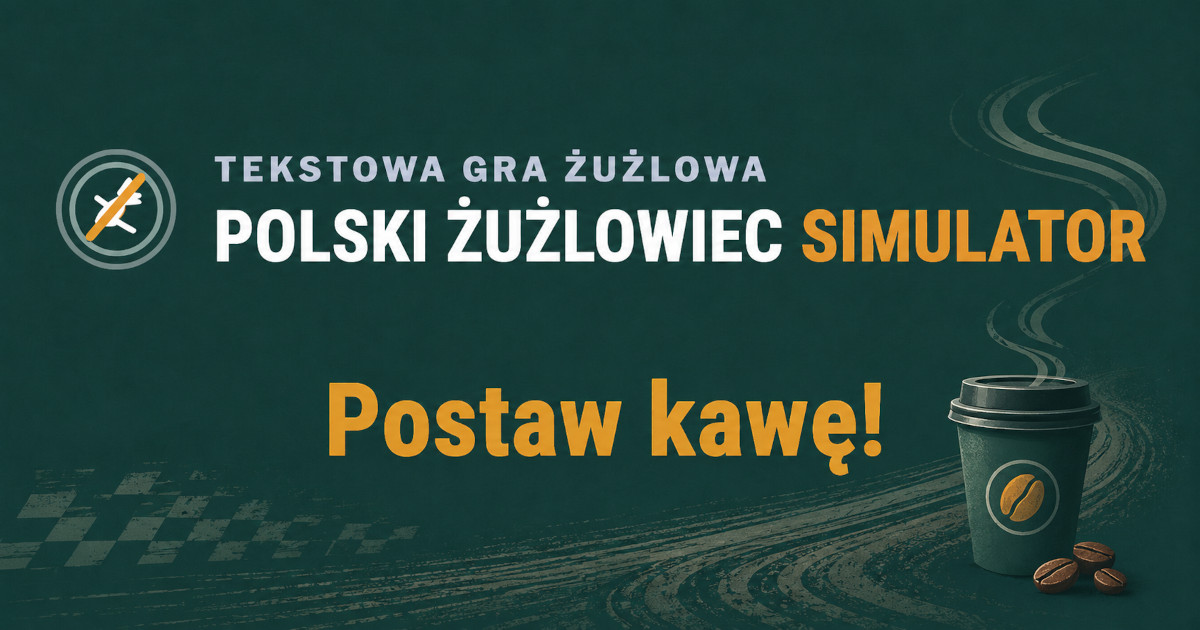
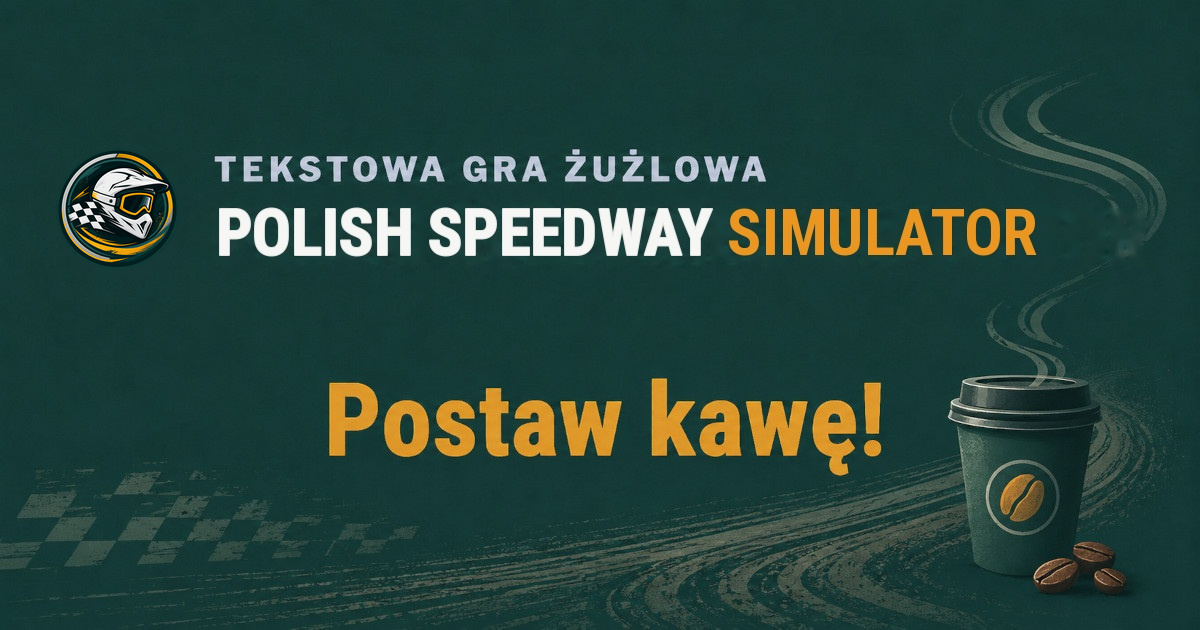
Aktualizacja - wersja 1.00

diff --git a/style.css b/style.css
@@ -5,7 +5,7 @@
 }
 *{box-sizing:border-box}html{scroll-behavior:smooth}body{margin:0;background:linear-gradient(180deg,#f6f3ec 0%,var(--page) 100%);color:var(--text);font-family:"Libre Franklin",Arial,sans-serif;line-height:1.5}button,input,select{font:inherit}.hidden{display:none!important}.app{min-height:100vh}
 h1,h2,h3,.number,.stats b,.big-stats b,.value b{font-family:"Roboto Condensed","Arial Narrow",sans-serif;font-weight:800}.eyebrow{margin:0 0 7px;color:var(--red-dark);font-size:.72rem;font-weight:800;letter-spacing:.16em;text-transform:uppercase}.muted{color:var(--muted)}
-.masthead{min-height:78px;padding:14px max(28px,calc((100vw - 1440px)/2));display:flex;align-items:center;justify-content:space-between;gap:20px;background:var(--navy);border-bottom:4px solid var(--cyan);color:white}.brand-lockup{display:flex;align-items:center;gap:13px}.brand-mark{width:42px;height:42px;position:relative;border:2px solid rgba(255,255,255,.4);border-radius:50%}.brand-ring{position:absolute;width:28px;height:15px;border:3px solid white;border-radius:50%;left:5px;top:11px;transform:rotate(-12deg)}.brand-slash{position:absolute;width:4px;height:31px;background:var(--red);left:18px;top:4px;transform:rotate(35deg)}.masthead h1{margin:0;font-size:1.55rem;line-height:1}.masthead h1 span{color:var(--red)}.masthead .eyebrow{color:#bac7da;margin-bottom:3px}.header-actions{display:flex;align-items:center;gap:8px;flex-wrap:wrap}.version-badge{padding:7px 10px;border:1px solid rgba(255,255,255,.24);border-radius:5px;font-size:.72rem;font-weight:800}.btn{border:0;border-radius:5px;min-height:43px;padding:0 17px;font-weight:800;font-size:.78rem;letter-spacing:.035em;text-transform:uppercase;cursor:pointer;transition:.15s ease}.btn:hover{transform:translateY(-1px)}.btn.primary{background:var(--red);color:#20302d}.btn.primary:hover{background:var(--red-dark)}.btn.secondary{background:transparent;color:white;border:1px solid rgba(255,255,255,.35)}.btn.outline{background:white;color:var(--navy);border:1px solid #cfd6e1}.btn.full,.btn.submit{width:100%;min-height:56px;font-size:1rem}
+.masthead{min-height:78px;padding:14px max(28px,calc((100vw - 1440px)/2));display:flex;align-items:center;justify-content:space-between;gap:20px;background:var(--navy);border-bottom:4px solid var(--cyan);color:white}.brand-lockup{display:flex;align-items:center;gap:13px}.brand-mark{width:46px;height:46px;position:relative;border:0;border-radius:50%;overflow:visible;flex:0 0 46px}.brand-ring{position:absolute;width:28px;height:15px;border:3px solid white;border-radius:50%;left:5px;top:11px;transform:rotate(-12deg)}.brand-slash{position:absolute;width:4px;height:31px;background:var(--red);left:18px;top:4px;transform:rotate(35deg)}.masthead h1{margin:0;font-size:1.55rem;line-height:1}.masthead h1 span{color:var(--red)}.masthead .eyebrow{color:#bac7da;margin-bottom:3px}.header-actions{display:flex;align-items:center;gap:8px;flex-wrap:wrap}.version-badge{padding:7px 10px;border:1px solid rgba(255,255,255,.24);border-radius:5px;font-size:.72rem;font-weight:800}.btn{border:0;border-radius:5px;min-height:43px;padding:0 17px;font-weight:800;font-size:.78rem;letter-spacing:.035em;text-transform:uppercase;cursor:pointer;transition:.15s ease}.btn:hover{transform:translateY(-1px)}.btn.primary{background:var(--red);color:#20302d}.btn.primary:hover{background:var(--red-dark)}.btn.secondary{background:transparent;color:white;border:1px solid rgba(255,255,255,.35)}.btn.outline{background:white;color:var(--navy);border:1px solid #cfd6e1}.btn.full,.btn.submit{width:100%;min-height:56px;font-size:1rem}
 .start-wrap{padding:30px 18px 60px}.start-card{max-width:980px;margin:auto;background:transparent}.start-hero{position:relative;overflow:hidden;background:linear-gradient(135deg,var(--navy),var(--navy-2));color:white;padding:34px 38px;border-radius:8px;margin-bottom:18px;box-shadow:var(--shadow)}.start-hero h2{font-size:clamp(2.4rem,6vw,4.3rem);line-height:.93;text-transform:uppercase;margin:0 0 16px;max-width:700px}.start-hero .lead{max-width:650px;color:#d8e0ed;font-size:1rem}.track-mark{position:absolute;width:230px;height:230px;border:35px solid rgba(239,35,60,.38);border-radius:50%;right:-45px;top:-62px}.career-form{display:grid;gap:18px}.form-section{background:white;border:1px solid var(--line);border-radius:8px;box-shadow:0 4px 15px rgba(25,39,65,.04);overflow:hidden;padding:0 22px 22px}.form-section-title{display:flex;align-items:center;gap:11px;margin:0 -22px 20px;padding:12px 20px;background:linear-gradient(135deg,var(--navy),var(--navy-2));color:white}.form-section-title span{color:var(--red-dark);font-family:"Roboto Condensed";font-weight:800}.form-section-title h3{margin:0;font-size:1.25rem;text-transform:uppercase}.name-row{display:grid;grid-template-columns:1fr 260px;gap:12px;align-items:end}.form-grid{display:grid;grid-template-columns:repeat(3,1fr);gap:14px;margin-top:14px}label{display:block;color:#596579;font-size:.73rem;font-weight:800;letter-spacing:.06em;text-transform:uppercase}input,select{width:100%;height:50px;margin-top:7px;padding:0 14px;border:1px solid #cfd6e1;border-radius:5px;background:white;color:var(--text);outline:none}input:focus,select:focus{border-color:var(--navy-3);box-shadow:0 0 0 3px rgba(26,59,112,.10)}.choice-grid{display:grid;gap:10px}.start-choice-grid{grid-template-columns:repeat(2,1fr)}.start-choice-grid .choice-card:last-child{grid-column:1/-1}.difficulty-grid{grid-template-columns:repeat(3,1fr)}.choice-card{min-height:82px;text-align:left;padding:14px 16px;background:white;border:1px solid #cfd6e1;border-radius:5px;color:var(--text);cursor:pointer}.choice-card strong{display:block;font-size:.93rem;margin-bottom:4px}.choice-card small{display:block;color:var(--muted);line-height:1.35}.choice-card.active{background:var(--navy);border-color:var(--navy);color:white;box-shadow:inset 4px 0 0 var(--cyan)}.choice-card.active small{color:#cbd6e7}
 .layout{width:min(1440px,calc(100% - 34px));margin:24px auto 54px;display:grid;grid-template-columns:300px 1fr;gap:18px;align-items:start}.content{display:grid;gap:16px}.dashboard-intro{display:flex;justify-content:space-between;align-items:end;padding:3px 1px}.dashboard-intro h2{margin:0;font-size:2rem;text-transform:uppercase}.live-indicator{font-size:.68rem;font-weight:800;color:var(--muted)}.live-indicator span{display:inline-block;width:8px;height:8px;border-radius:50%;background:var(--green);margin-right:7px}.card{background:white;border:1px solid var(--line);border-radius:8px;box-shadow:0 5px 18px rgba(25,39,65,.05);overflow:hidden;padding:20px}.profile{position:sticky;top:18px;padding:0}.profile>.number,.profile>p,.profile>h2,.profile>hr,.profile>.big-stats,.profile>.profile-block,.profile>.micro{margin-left:20px;margin-right:20px}.profile::before{content:"KARTA ZAWODNIKA";display:block;background:linear-gradient(135deg,var(--navy),var(--navy-2));color:white;padding:12px 20px;font-family:"Roboto Condensed";font-weight:800;letter-spacing:.04em}.number{width:68px;height:68px;display:grid;place-items:center;margin-top:20px!important;background:var(--red);color:#20302d;font-size:2.25rem;border-radius:5px}.profile h2{font-size:1.65rem;margin-top:8px;margin-bottom:3px}.profile hr{border:0;border-top:1px solid var(--line);margin-top:17px!important;margin-bottom:17px!important}.big-stats{display:grid;grid-template-columns:1fr 1fr;gap:10px}.big-stats div{padding:11px;background:#f6f8fb;border:1px solid #e2e7ef;border-radius:5px}.big-stats span,.profile-block span,.micro span,.stats span,.value span{display:block;color:var(--muted);font-size:.63rem;font-weight:800;letter-spacing:.08em;text-transform:uppercase}.big-stats b{display:block;font-size:1.75rem}.red{color:var(--red)!important}.profile-block{margin-top:12px;margin-bottom:12px}.profile-block strong{display:block}.profile-block small{color:var(--muted)}.micro{display:grid;gap:0;margin-bottom:20px!important;border:1px solid var(--line);border-radius:5px;overflow:hidden}.micro div{display:flex;justify-content:space-between;padding:8px 10px;background:#fafbfc;border-bottom:1px solid var(--line)}.micro div:last-child{border-bottom:0}
 .season{padding:0}.season-head{padding:20px 22px;background:linear-gradient(135deg,var(--navy),var(--navy-2));color:white;display:flex;justify-content:space-between;align-items:start}.season-head .eyebrow{color:#9edce4}.season-head h2{margin:0;font-size:2rem;text-transform:uppercase}.value{text-align:right}.value span{color:#b9c6da}.value b{font-size:1.35rem}.stats{display:grid;grid-template-columns:repeat(5,1fr);border-bottom:1px solid var(--line)}.stats>div{padding:16px 18px;border-right:1px solid var(--line)}.stats>div:last-child{border-right:0}.stats b{display:block;font-size:1.4rem;margin-top:4px}.news,.result{margin:18px 22px;padding:15px 17px;background:#f6f8fb;border-left:4px solid var(--cyan)}.season>.btn{width:calc(100% - 44px);margin:0 22px 22px}.section-head{display:flex;justify-content:space-between;align-items:center;margin:-20px -20px 20px;padding:13px 20px;background:linear-gradient(135deg,var(--navy),var(--navy-2));color:white}.section-head h2{margin:0;font-size:1.55rem;text-transform:uppercase}.section-head .eyebrow{color:#8edbe4}.pill{padding:7px 11px;border:1px solid rgba(255,255,255,.3);border-radius:999px;color:white;font-size:.66rem;font-weight:800}
@@ -333,7 +333,7 @@ body::before{
 .summary-share-btn{display:inline-flex!important;align-items:center;justify-content:center;min-height:46px;box-shadow:0 5px 14px rgba(229,154,47,.24)}
 #careerSummaryCard:not(.hidden){display:block}
 
-.speedway-logo{width:100%;height:100%;overflow:visible}.logo-wheel{fill:none;stroke:#8aa5a1;stroke-width:5}.logo-hub{fill:#f0a12f}.logo-bike{fill:#f8faf8}.logo-frame{fill:none;stroke:#f8faf8;stroke-width:5;stroke-linecap:round;stroke-linejoin:round}.logo-accent{fill:none;stroke:#f0a12f;stroke-width:8;stroke-linecap:round}
+.speedway-logo{display:block;width:100%;height:100%;object-fit:contain}
 .guidance-toggle{display:flex;align-items:flex-start;gap:12px;padding:15px 17px;margin:2px 0 18px;border:1px solid var(--line);border-radius:7px;background:#f7f8f5;cursor:pointer}.guidance-toggle input{width:20px;height:20px;margin-top:2px;accent-color:var(--teal)}.guidance-toggle span{display:grid;gap:3px}.guidance-toggle strong{font-size:.88rem}.guidance-toggle small{color:var(--muted);line-height:1.4}.guidance-report{margin-top:18px;padding:15px 18px;border-left:4px solid var(--turquoise);background:#fffdf8}.guidance-report span{font-size:.68rem;font-weight:800;letter-spacing:.12em;color:#bd7517}.guidance-report p{margin:8px 0 0}
 
 .skill-lock{display:block;grid-column:1/-1;margin-top:6px;font-size:.72rem;color:#8a6b2a}
@@ -372,7 +372,7 @@ body::before{
 
 .race-track-change{margin:10px 0 4px;padding:9px 12px;border-left:3px solid rgba(28,120,106,.55);background:rgba(28,120,106,.06);font-weight:650}
 
-/* 1.31 — wydarzenia fabularne */
+/* Wydarzenia fabularne */
 .event-probabilities{margin-top:9px}
 .event-super{color:#7448d8}.event-success{color:#16875a}.event-neutral{color:#8a7b55}.event-fail{color:#b03535}
 .event-outcome-roller .event-tile-super{background:#8755ea}
@@ -402,7 +402,7 @@ body::before{
 
 
 /* =========================================================
-   1.32 — pełny mobile UX
+   Pełny mobile UX
    ========================================================= */
 html,body{max-width:100%;overflow-x:hidden}
 button,.btn,.option,.choice-card{touch-action:manipulation;-webkit-tap-highlight-color:transparent}
@@ -422,7 +422,7 @@ button,.btn,.option,.choice-card{touch-action:manipulation;-webkit-tap-highlight
   gap:10px;
  }
  .brand-lockup{width:100%;gap:10px}
- .brand-mark{display:block;width:34px;height:34px;flex:0 0 34px}
+ .brand-mark{display:block;width:38px;height:38px;flex:0 0 38px}
  .masthead h1{font-size:clamp(1.05rem,5.6vw,1.42rem);line-height:1.02;overflow-wrap:anywhere}
  .masthead .eyebrow{font-size:.56rem;letter-spacing:.13em}
  .header-actions{width:100%;display:grid;grid-template-columns:repeat(2,minmax(0,1fr));gap:7px}
@@ -597,7 +597,7 @@ button,.btn,.option,.choice-card{touch-action:manipulation;-webkit-tap-highlight
  .modal-card>.eyebrow,.modal-card.modal-card-wide>.eyebrow{margin-left:-11px;margin-right:-11px;padding-left:11px;padding-right:11px}
 }
 
-/* 1.33 — celebracja jako pełny ekran kontrolowany przez gracza */
+/* Celebracja jako pełny ekran kontrolowany przez gracza */
 .achievement-burst{
  background:
   radial-gradient(circle at 50% 42%,rgba(20,74,62,.26),rgba(2,9,8,.88) 58%,rgba(1,5,5,.95));
@@ -632,14 +632,14 @@ button,.btn,.option,.choice-card{touch-action:manipulation;-webkit-tap-highlight
 }
 
 
-/* v1.34 */
+/* Mechanika interaktywnych biegów */
 .calendar-notice{margin-top:10px;padding:10px 12px;border-left:3px solid #42aaa0;background:rgba(66,170,160,.07);line-height:1.45}
 .event-outcome-roller .event-tile-success{background:#2fa86f!important}
 .event-outcome-roller .event-tile-neutral{background:#d39a2f!important}
 .event-outcome-roller .event-tile-fail{background:#d44a4a!important}
 .event-probabilities .event-success{color:#148255}.event-probabilities .event-neutral{color:#9b6b13}.event-probabilities .event-fail{color:#b52828}
 
-/* 2.00 — kontrolowane łamanie komunikatu celebracji */
+/* Kontrolowane łamanie komunikatu celebracji */
 .achievement-copy strong .achievement-title-main,
 .achievement-copy strong .achievement-title-detail{
  display:block;
@@ -649,7 +649,7 @@ button,.btn,.option,.choice-card{touch-action:manipulation;-webkit-tap-highlight
 }
 .achievement-copy strong .achievement-title-detail{margin-top:.12em}
 
-/* Wersja 2.00 — informacja o projekcie i dobrowolne wsparcie po zakończeniu kariery */
+/* Informacja o projekcie i dobrowolne wsparcie po zakończeniu kariery */
 .career-support{
   display:flex;
   justify-content:center;

diff --git a/app.js b/app.js
@@ -11,7 +11,7 @@ const LEAGUES=[
   ["Stelmet Falubaz Zielona Góra",79],["FOGO Unia Leszno",82],["KRONO-PLAST Włókniarz Częstochowa",76],["GEZET Stal Gorzów",77]
  ]},
  {id:2,name:"Metalkas 2. Ekstraliga",level:2,teams:[
-  ["Abramczyk Polonia Bydgoszcz",75],["Cellfast Wilki Krosno",70],["INNPRO ROW Rybnik",72],["Dakar Development Stal Rzeszów",68],
+  ["Abramczyk Polonia Bydgoszcz",75],["Cellfast Wilki Krosno",74],["INNPRO ROW Rybnik",72],["Dakar Development Stal Rzeszów",68],
   ["Hunters PSŻ Poznań",67],["H. Skrzydlewska Orzeł Łódź",65],["Polonia Piła",63],["Moonfin Magnus Ostrów Wielkopolski",64]
  ]},
  {id:3,name:"Krajowa Liga Żużlowa",level:3,teams:[
@@ -196,9 +196,9 @@ const REGION_CLUBS={
 const FOREIGN_POLISH_LEAGUE_CLUBS=new Set(["Landshut Devils","Lokomotiv Daugavpils","MSC Wölfe Wittstock","AMK Zlatá Přilba Pardubice"]);
 function isForeignPolishLeagueClub(name){return FOREIGN_POLISH_LEAGUE_CLUBS.has(clubBaseName(name))}
 const EXPANSION_CLUBS=[
- {name:"Jaskółki Tarnów",city:"Tarnów",strength:52,type:"reaktywacja"},
+ {name:"Unia Tarnów",city:"Tarnów",strength:52,type:"reaktywacja"},
  {name:"Rawicz Speedway",city:"Rawicz",strength:48,type:"reaktywacja"},
- {name:"Wicher Machowa",city:"Machowa",strength:43,type:"reaktywacja"},
+ {name:"Victoria Machowa",city:"Machowa",strength:43,type:"reaktywacja"},
  {name:"Silesia Katowice",city:"Katowice",strength:46,type:"nowa sekcja"},
  {name:"Warszawski Klub Żużlowy",city:"Warszawa",strength:50,type:"nowa sekcja"},
  {name:"Gryfy Szczecin",city:"Szczecin",strength:44,type:"nowa sekcja"},
@@ -1917,7 +1917,7 @@ function showStartDisclaimer(){
  showModal(
   "WAŻNA INFORMACJA",
   "Zanim rozpoczniesz karierę",
-  `<strong>Polski Żużlowiec Simulator jest niezależną, nieoficjalną grą symulacyjną stworzoną dla fanów żużla.</strong><br><br>Gra wykorzystuje elementy rzeczywistego świata sportu żużlowego, jednak przebieg kariery, wyniki, transfery, kontrakty, wydarzenia oraz kolejne sezony są elementami fikcyjnej symulacji.<br><br>Projekt nie jest oficjalnie powiązany z klubami, organizatorami rozgrywek, federacjami ani innymi podmiotami pojawiającymi się w grze.<br><br><strong>Miłej zabawy i powodzenia na żużlowych torach!</strong>`,
+  `<strong>Polish Speedway Simulator jest niezależną, nieoficjalną grą symulacyjną stworzoną dla fanów żużla.</strong><br><br>Gra wykorzystuje elementy rzeczywistego świata sportu żużlowego, jednak przebieg kariery, wyniki, transfery, kontrakty, wydarzenia oraz kolejne sezony są elementami fikcyjnej symulacji.<br><br>Projekt nie jest oficjalnie powiązany z klubami, organizatorami rozgrywek, federacjami ani innymi podmiotami pojawiającymi się w grze.<br><br><strong>Miłej zabawy i powodzenia na żużlowych torach!</strong>`,
   [{title:"ROZUMIEM — ZACZYNAM KARIERĘ",desc:"Przejdź do swojej żużlowej kariery.",action:()=>{closeModal();createPlayer()}}]
  );
 }
@@ -1957,11 +1957,13 @@ function createPlayer(){
  $("newsBox").innerHTML=`<p class="eyebrow">PRZED LICENCJĄ</p><h3>${background.title.toUpperCase()}</h3><p>${background.text}</p><p><b>Zaplecze:</b> ${support.title}. Budżet początkowy: ${money(S.budget)}.</p>${openingReport?`<div class="guidance-report"><span>RAPORT SZKÓŁKI</span><p>${openingReport.text}</p></div>`:""}`;
  save();
 }
-function save(){localStorage.setItem("pzs_v200",JSON.stringify(S))}
+function save(){localStorage.setItem("pss_v100",JSON.stringify(S))}
 function load(){
  try{
-  const newest=localStorage.getItem("pzs_v200");
+  const newest=localStorage.getItem("pss_v100");
+  const previousBrand=localStorage.getItem("pzs_v200");
   if(newest)return JSON.parse(newest);
+  if(previousBrand){localStorage.setItem("pss_v100",previousBrand); return JSON.parse(previousBrand);}
   const v1361=localStorage.getItem("pzs_v1361");
   if(v1361)return JSON.parse(v1361);
   const v136=localStorage.getItem("pzs_v136");
@@ -2586,7 +2588,7 @@ function animateRollerWithBrake(stripEl,startOffset,finalOffset,duration,done){
  stripEl.style.transition="none";
  stripEl.style.transform=`translate3d(${-startOffset}px,0,0)`;
 
- // 2.00 — jedna gładka krzywa prędkości.
+ // 1.00 — jedna gładka krzywa prędkości.
  // Szybki start, a potem od razu naturalne, długie hamowanie:
  // bez ponownego przyspieszania, bez "progów" między fazami
  // i z bardzo wolnym ogonem tuż przed zatrzymaniem.
@@ -7056,7 +7058,7 @@ function drawCareerGraphicHeader(ctx,title,subtitle){
  ctx.fillStyle="#f4f0e7";ctx.fillRect(0,0,1080,1350);
  ctx.fillStyle="#173d3a";ctx.fillRect(0,0,1080,220);
  ctx.fillStyle="#4ca7a0";ctx.fillRect(0,212,1080,8);
- canvasText(ctx,"POLSKI ŻUŻLOWIEC SIMULATOR",64,72,{font:"700 27px Arial",color:"#a8dfe2"});
+ canvasText(ctx,"POLISH SPEEDWAY SIMULATOR",64,72,{font:"700 27px Arial",color:"#a8dfe2"});
  canvasText(ctx,title,64,142,{font:"800 55px Arial",color:"#ffffff",maxWidth:900});
  canvasText(ctx,subtitle,64,190,{font:"600 25px Arial",color:"#e9a33a",maxWidth:900});
 }
@@ -7097,7 +7099,7 @@ function generateCareerSummaryGraphic(){
  canvasRoundRect(ctx,55,1160,970,120,16,"#173d3a");
  canvasText(ctx,"TYP KARIERY",85,1203,{font:"700 18px Arial",color:"#a8dfe2"});
  canvasText(ctx,classifyCareerPath(),85,1250,{font:"800 35px Arial",color:"#ffffff"});
- canvasText(ctx,"#PolskiŻużlowiecSimulator",995,1250,{font:"700 20px Arial",color:"#e9a33a",align:"right"});
+ canvasText(ctx,"#PolishSpeedwaySimulator",995,1250,{font:"700 20px Arial",color:"#e9a33a",align:"right"});
  downloadCanvas(canvas,`kariera-${S.name.toLowerCase().replace(/[^a-z0-9ąćęłńóśźż]+/gi,"-")}.png`);
 }
 function generateSeasonHistoryGraphics(){
@@ -7128,7 +7130,7 @@ function generateSeasonHistoryGraphics(){
     canvasText(ctx,leagueSeasonLabel(season),columns[7],y,{font:"700 18px Arial",maxWidth:115});
     y+=82;
    });
-   canvasText(ctx,"POLSKI ŻUŻLOWIEC SIMULATOR",55,1300,{font:"700 18px Arial",color:"#6e7773"});
+   canvasText(ctx,"POLISH SPEEDWAY SIMULATOR",55,1300,{font:"700 18px Arial",color:"#6e7773"});
    downloadCanvas(canvas,`historia-${S.name.toLowerCase().replace(/[^a-z0-9ąćęłńóśźż]+/gi,"-")}-${pageIndex+1}.png`);
    setTimeout(resolve,350);
   }));
@@ -7640,7 +7642,7 @@ $("riderNumber").addEventListener("input",()=>{
 });
 $("startForm").onsubmit=e=>{e.preventDefault();showStartDisclaimer()};
 $("playBtn").onclick=play;
-$("newBtn").onclick=()=>{if(confirm("Usunąć obecny zapis i rozpocząć nową karierę?")){localStorage.removeItem("pzs_v200");localStorage.removeItem("pzs_v1361");localStorage.removeItem("pzs_v136");localStorage.removeItem("pzs_v135");localStorage.removeItem("pzs_v134");localStorage.removeItem("pzs_v1331");localStorage.removeItem("pzs_v133");localStorage.removeItem("pzs_v132");localStorage.removeItem("pzs_v131");localStorage.removeItem("pzs_v1301");localStorage.removeItem("pzs_v130");localStorage.removeItem("pzs_v129");localStorage.removeItem("pzs_v128");localStorage.removeItem("pzs_v127");localStorage.removeItem("pzs_v126");localStorage.removeItem("pzs_v1252");localStorage.removeItem("pzs_v1251");localStorage.removeItem("pzs_v125");localStorage.removeItem("pzs_v124");localStorage.removeItem("pzs_v123");localStorage.removeItem("pzs_v122");localStorage.removeItem("pzs_v121");localStorage.removeItem("pzs_v120");localStorage.removeItem("pzs_v119");localStorage.removeItem("pzs_v118");localStorage.removeItem("pzs_v117");localStorage.removeItem("pzs_v116");localStorage.removeItem("pzs_v115");localStorage.removeItem("pzs_v114");localStorage.removeItem("pzs_v113");localStorage.removeItem("pzs_v112");localStorage.removeItem("pzs_v111");localStorage.removeItem("pzs_v110");localStorage.removeItem("pzs_v109");localStorage.removeItem("pzs_v108");localStorage.removeItem("pzs_v107");localStorage.removeItem("pzs_v106");localStorage.removeItem("pzs_v105");localStorage.removeItem("pzs_v104");localStorage.removeItem("pzs_v103");localStorage.removeItem("pzs_v102");localStorage.removeItem("pzs_v101");localStorage.removeItem("pzs_v100");localStorage.removeItem("pzs_v305");localStorage.removeItem("pzs_v304");localStorage.removeItem("pzs_v303");localStorage.removeItem("pzs_v302");localStorage.removeItem("pzs_v301");localStorage.removeItem("pzs_final30");localStorage.removeItem("pzs_v30");localStorage.removeItem("pzs_v29");localStorage.removeItem("pzs_v28");localStorage.removeItem("pzs_v27");localStorage.removeItem("pzs_v26");localStorage.removeItem("pzs_v25");localStorage.removeItem("pzs_v24");localStorage.removeItem("pzs_v23");localStorage.removeItem("pzs_v22");localStorage.removeItem("pzs_v2");location.reload()}};
+$("newBtn").onclick=()=>{if(confirm("Usunąć obecny zapis i rozpocząć nową karierę?")){localStorage.removeItem("pss_v100");localStorage.removeItem("pzs_v200");localStorage.removeItem("pzs_v1361");localStorage.removeItem("pzs_v136");localStorage.removeItem("pzs_v135");localStorage.removeItem("pzs_v134");localStorage.removeItem("pzs_v1331");localStorage.removeItem("pzs_v133");localStorage.removeItem("pzs_v132");localStorage.removeItem("pzs_v131");localStorage.removeItem("pzs_v1301");localStorage.removeItem("pzs_v130");localStorage.removeItem("pzs_v129");localStorage.removeItem("pzs_v128");localStorage.removeItem("pzs_v127");localStorage.removeItem("pzs_v126");localStorage.removeItem("pzs_v1252");localStorage.removeItem("pzs_v1251");localStorage.removeItem("pzs_v125");localStorage.removeItem("pzs_v124");localStorage.removeItem("pzs_v123");localStorage.removeItem("pzs_v122");localStorage.removeItem("pzs_v121");localStorage.removeItem("pzs_v120");localStorage.removeItem("pzs_v119");localStorage.removeItem("pzs_v118");localStorage.removeItem("pzs_v117");localStorage.removeItem("pzs_v116");localStorage.removeItem("pzs_v115");localStorage.removeItem("pzs_v114");localStorage.removeItem("pzs_v113");localStorage.removeItem("pzs_v112");localStorage.removeItem("pzs_v111");localStorage.removeItem("pzs_v110");localStorage.removeItem("pzs_v109");localStorage.removeItem("pzs_v108");localStorage.removeItem("pzs_v107");localStorage.removeItem("pzs_v106");localStorage.removeItem("pzs_v105");localStorage.removeItem("pzs_v104");localStorage.removeItem("pzs_v103");localStorage.removeItem("pzs_v102");localStorage.removeItem("pzs_v101");localStorage.removeItem("pzs_v100");localStorage.removeItem("pzs_v305");localStorage.removeItem("pzs_v304");localStorage.removeItem("pzs_v303");localStorage.removeItem("pzs_v302");localStorage.removeItem("pzs_v301");localStorage.removeItem("pzs_final30");localStorage.removeItem("pzs_v30");localStorage.removeItem("pzs_v29");localStorage.removeItem("pzs_v28");localStorage.removeItem("pzs_v27");localStorage.removeItem("pzs_v26");localStorage.removeItem("pzs_v25");localStorage.removeItem("pzs_v24");localStorage.removeItem("pzs_v23");localStorage.removeItem("pzs_v22");localStorage.removeItem("pzs_v2");location.reload()}};
 $("exportBtn").onclick=()=>{const blob=new Blob([JSON.stringify(S,null,2)],{type:"application/json"}),a=document.createElement("a");a.href=URL.createObjectURL(blob);a.download=`kariera-${S.name.replace(/\s+/g,"-").toLowerCase()}.json`;a.click();URL.revokeObjectURL(a.href)};
 $("importInput").onchange=e=>{const f=e.target.files[0];if(!f)return;const r=new FileReader();r.onload=()=>{try{S=JSON.parse(r.result);S.seasonFlowActive=false;S.preseasonCompletedYear=null;S.budgetManagementCompletedYear=null;normalize();save();render()}catch{alert("Nieprawidłowy plik zapisu.")}};r.readAsText(f)};
 const saved=load();if(saved){S=saved;S.seasonFlowActive=false;normalize();repairLegacyStuckSeason();repairMaxedMetaSave();save();render()}

diff --git a/index.html b/index.html
@@ -3,24 +3,26 @@
 <head>
   <meta charset="utf-8">
   <meta name="viewport" content="width=device-width,initial-scale=1">
-  <title>Polski Żużlowiec Simulator</title>
+  <title>Polish Speedway Simulator</title>
   <link rel="preconnect" href="https://fonts.googleapis.com">
   <link rel="preconnect" href="https://fonts.gstatic.com" crossorigin>
   <link href="https://fonts.googleapis.com/css2?family=Libre+Franklin:wght@400;500;600;700;800&family=Roboto+Condensed:wght@600;700;800&display=swap" rel="stylesheet">
   <meta name="theme-color" content="#173d3a">
-  <meta name="description" content="Polski Żużlowiec Simulator 2.00 — tekstowa gra żużlowa o drodze od szkółki do światowego żużla.">
-
+  <link rel="icon" type="image/png" href="speedway-emblem.png">
+  <meta name="description" content="Polish Speedway Simulator 1.00 — tekstowa gra żużlowa o drodze od szkółki do światowego żużla.">
   <meta property="og:type" content="website">
-  <meta property="og:title" content="Polski Żużlowiec Simulator">
+  <meta property="og:title" content="Polish Speedway Simulator">
   <meta property="og:description" content="Tekstowy symulator kariery polskiego żużlowca — od szkółki aż po walkę o największe trofea.">
-  <meta property="og:url" content="https://polskizuzlowiec.vercel.app/">
-  <meta property="og:image" content="https://polskizuzlowiec.vercel.app/social-preview.jpeg">
-
+  <meta property="og:url" content="https://polishspeedway.vercel.app/">
+  <meta property="og:image" content="https://polishspeedway.vercel.app/social-preview.jpg">
+  <meta property="og:image:width" content="1200">
+  <meta property="og:image:height" content="630">
+  <meta property="og:image:alt" content="Polish Speedway Simulator — tekstowa gra żużlowa">
   <meta name="twitter:card" content="summary_large_image">
-  <meta name="twitter:title" content="Polski Żużlowiec Simulator">
+  <meta name="twitter:title" content="Polish Speedway Simulator">
   <meta name="twitter:description" content="Tekstowy symulator kariery polskiego żużlowca — od szkółki aż po walkę o największe trofea.">
-  <meta name="twitter:image" content="https://polskizuzlowiec.vercel.app/social-preview.jpeg">
-
+  <meta name="twitter:image" content="https://polishspeedway.vercel.app/social-preview.jpg">
+  <meta name="twitter:image:alt" content="Polish Speedway Simulator — tekstowa gra żużlowa">
   <link rel="stylesheet" href="style.css">
 </head>
 <body>
@@ -28,20 +30,14 @@
   <header class="masthead">
     <div class="brand-lockup">
       <div class="brand-mark" aria-hidden="true">
-        <svg class="speedway-logo" viewBox="0 0 96 96" focusable="false">
-          <circle cx="48" cy="48" r="39" class="logo-wheel"/>
-          <circle cx="48" cy="48" r="8" class="logo-hub"/>
-          <path d="M29 58c7-15 18-23 34-24l8 9-15 2-9 18H31z" class="logo-bike"/>
-          <path d="M51 34l9-12m-5 12 13 2M43 47l-12-9m16 20 16 9" class="logo-frame"/>
-          <path d="M25 72 70 20" class="logo-accent"/>
-        </svg>
+        <img class="speedway-logo" src="speedway-emblem.png" alt="">
       </div>
       <div>
         <p class="eyebrow">TEKSTOWA GRA ŻUŻLOWA</p>
-        <h1>POLSKI ŻUŻLOWIEC <span>SIMULATOR</span></h1>
+        <h1>POLISH SPEEDWAY <span>SIMULATOR</span></h1>
       </div>
     </div>
-    <div class="header-actions"><span class="version-badge">WERSJA 2.00</span>
+    <div class="header-actions"><span class="version-badge">WERSJA 1.00</span>
       <button id="exportBtn" class="btn secondary hidden">EKSPORT ZAPISU</button>
       <label class="btn secondary hidden" id="importLabel">IMPORT ZAPISU<input id="importInput" type="file" accept=".json"></label>
       <button id="newBtn" class="btn secondary">NOWA KARIERA</button>
@@ -233,8 +229,8 @@
         </div>
         <div id="careerSummaryContent" class="career-summary-content"></div>
         <div class="career-support">
-          <a class="career-support-link" href="https://www.naffy.io/piotr-bak-qwihy/postaw-kawe" target="_blank" rel="noopener noreferrer" aria-label="Postaw kawę i wesprzyj rozwój Polskiego Żużlowca Simulatora">
-            <img src="postaw-kawe.jpeg" alt="Postaw kawę — wesprzyj rozwój Polskiego Żużlowca Simulatora">
+          <a class="career-support-link" href="https://www.naffy.io/piotr-bak-qwihy/postaw-kawe" target="_blank" rel="noopener noreferrer" aria-label="Postaw kawę i wesprzyj rozwój Polish Speedway Simulator">
+            <img src="postaw-kawe.jpeg" alt="Postaw kawę — wesprzyj rozwój Polish Speedway Simulator">
           </a>
         </div>
       </article>
@@ -251,7 +247,7 @@
 </div>
 
 <footer class="legal-footer" aria-label="Informacja o charakterze projektu">
-  <p><strong>Polski Żużlowiec Simulator</strong> jest niezależnym, nieoficjalnym projektem stworzonym dla fanów sportu żużlowego. Gra wykorzystuje elementy inspirowane rzeczywistym światem żużla, w tym nazwy klubów, rozgrywek, miejsc, instytucji i osób, jednak nie stanowi oficjalnego produktu żadnego z tych podmiotów i nie jest przez nie sponsorowana ani autoryzowana. Gra ma charakter symulacyjny, a przebieg kariery, wyniki, transfery, kontrakty, wydarzenia, zmiany nazw, relacje pomiędzy podmiotami oraz kolejne sezony są elementami fikcyjnej symulacji i nie powinny być traktowane jako informacje o rzeczywistych zdarzeniach, decyzjach lub relacjach. Wszystkie wykorzystane nazwy służą wyłącznie budowaniu świata przedstawionego gry. Polski Żużlowiec Simulator nie jest również powiązany z twórcami innych gier i symulatorów sportowych.</p>
+  <p><strong>Polish Speedway Simulator</strong> jest niezależnym, nieoficjalnym projektem stworzonym dla fanów sportu żużlowego. Gra wykorzystuje elementy inspirowane rzeczywistym światem żużla, w tym nazwy klubów, rozgrywek, miejsc, instytucji i osób, jednak nie stanowi oficjalnego produktu żadnego z tych podmiotów i nie jest przez nie sponsorowana ani autoryzowana. Gra ma charakter symulacyjny, a przebieg kariery, wyniki, transfery, kontrakty, wydarzenia, zmiany nazw, relacje pomiędzy podmiotami oraz kolejne sezony są elementami fikcyjnej symulacji i nie powinny być traktowane jako informacje o rzeczywistych zdarzeniach, decyzjach lub relacjach. Wszystkie wykorzystane nazwy służą wyłącznie budowaniu świata przedstawionego gry. Polish Speedway Simulator nie jest również powiązany z twórcami innych gier i symulatorów sportowych.</p>
 </footer>
 
 <div id="modal" class="modal hidden">
